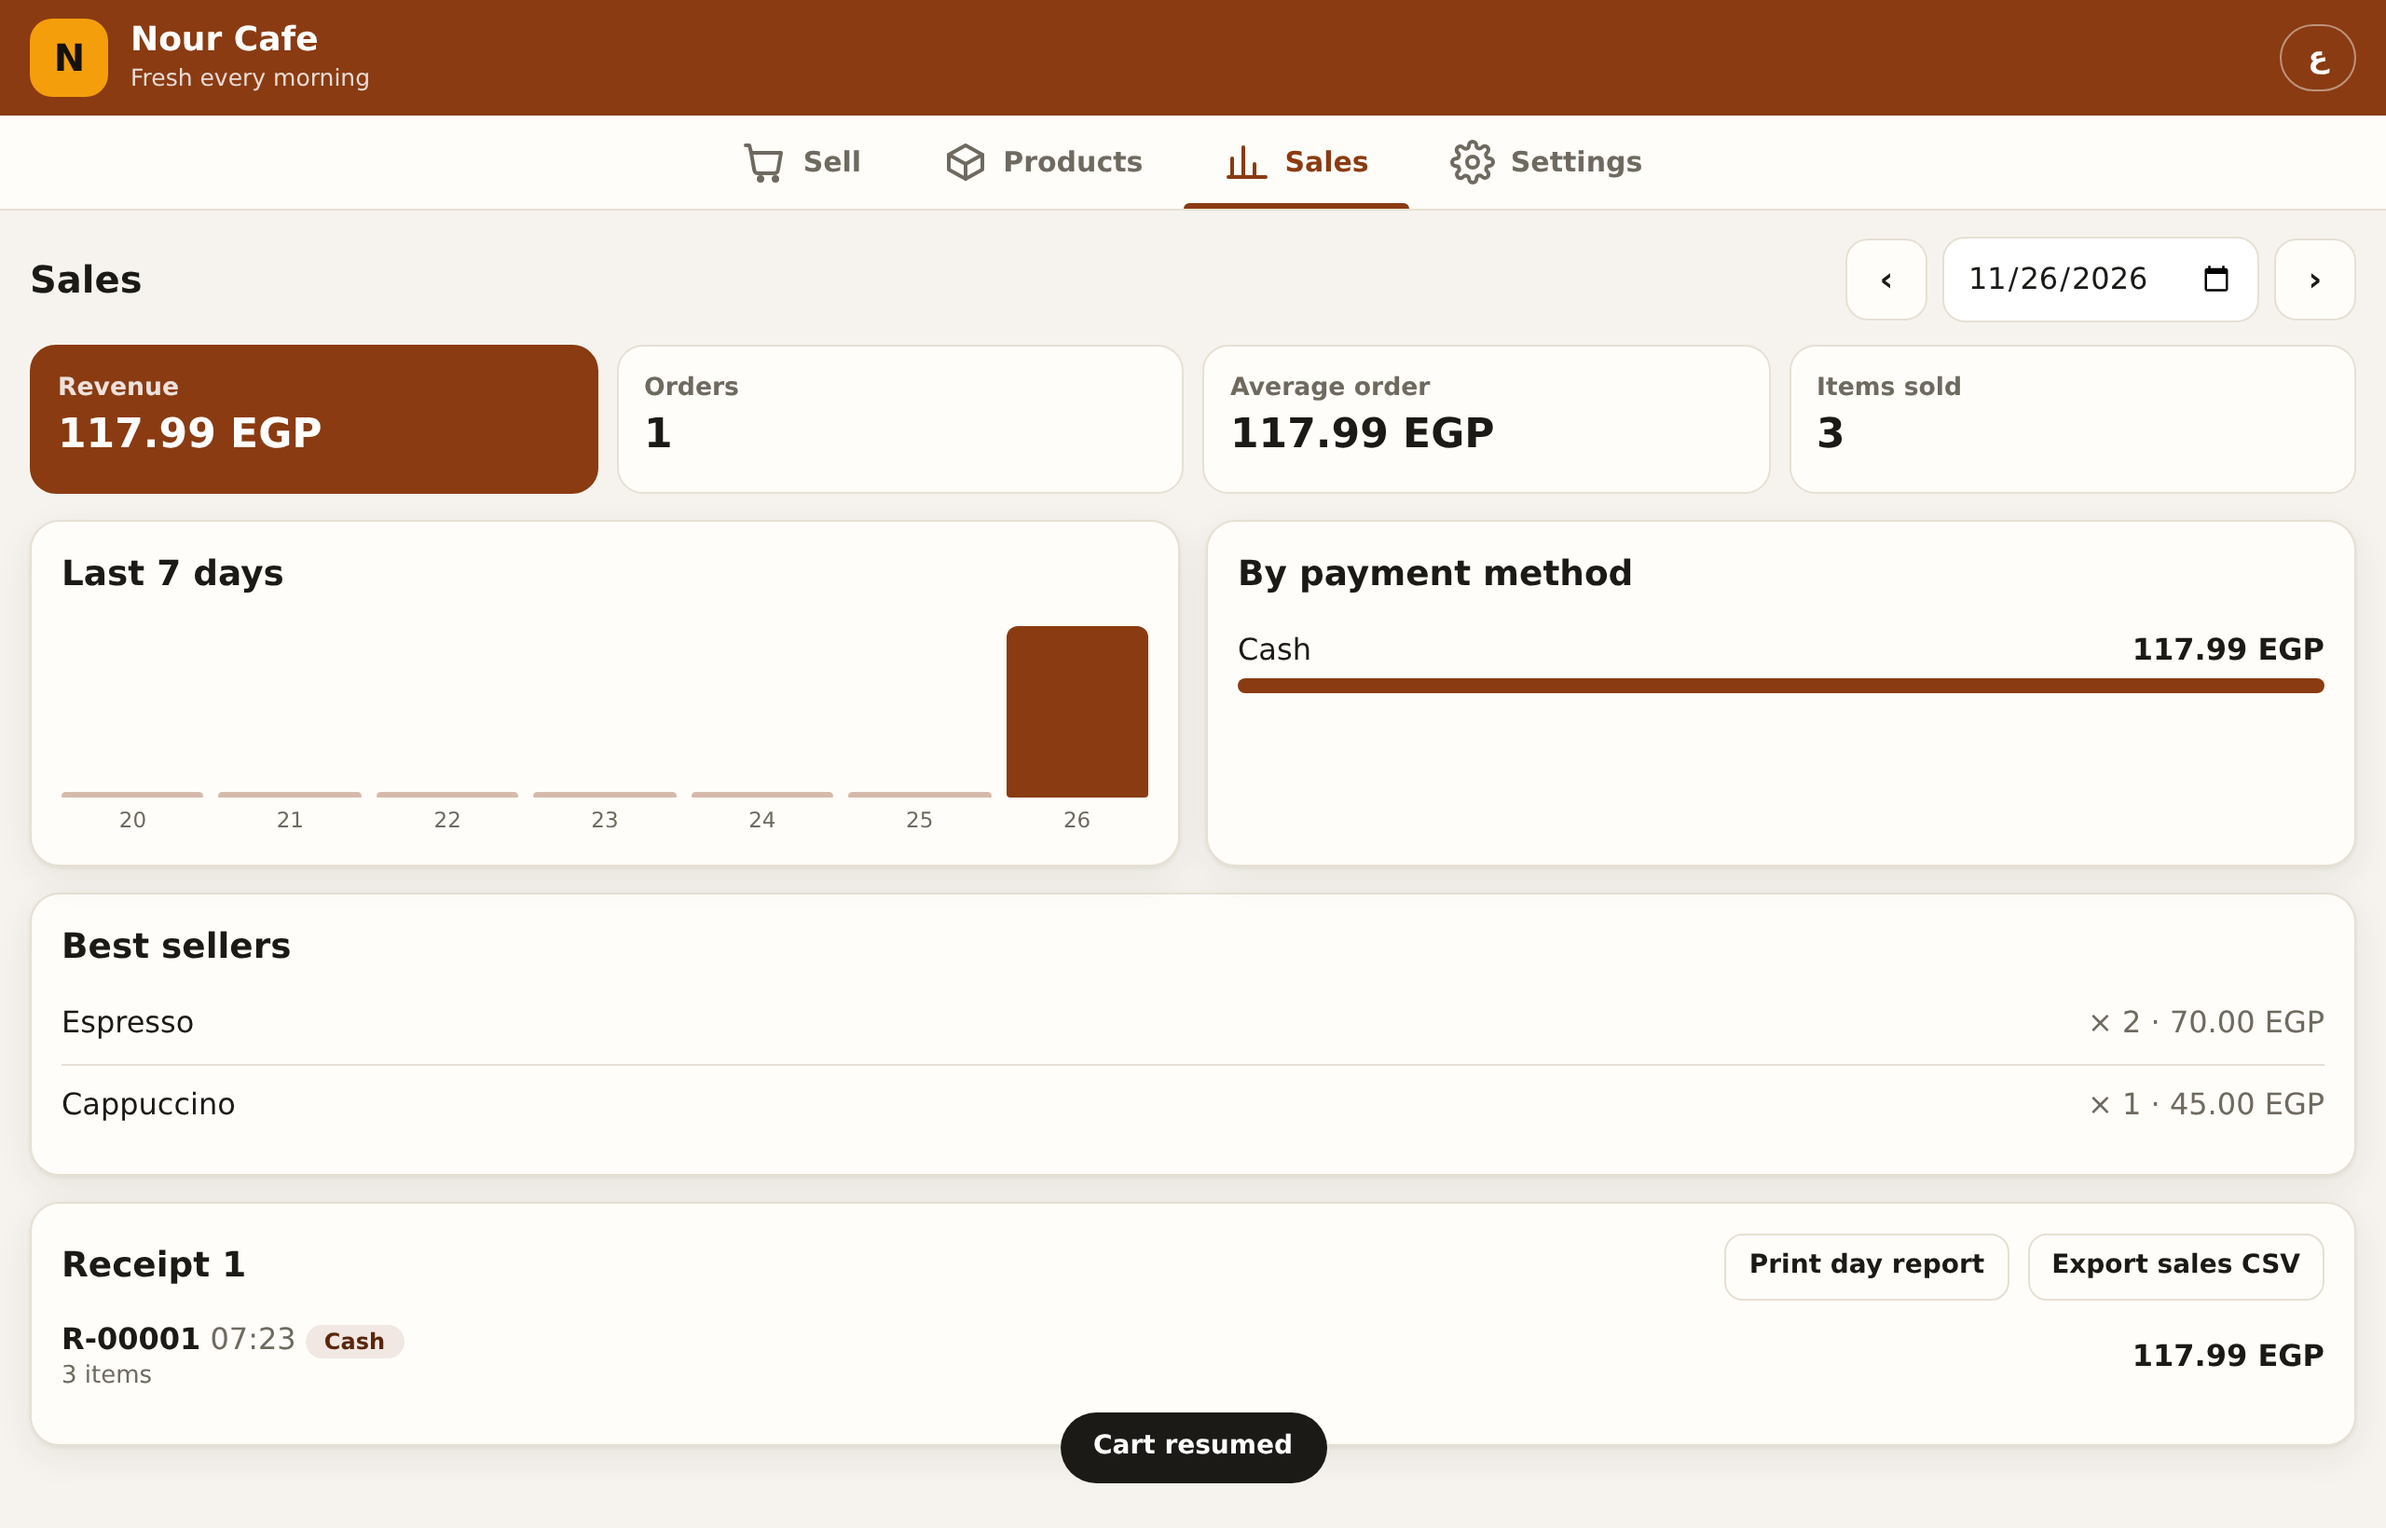
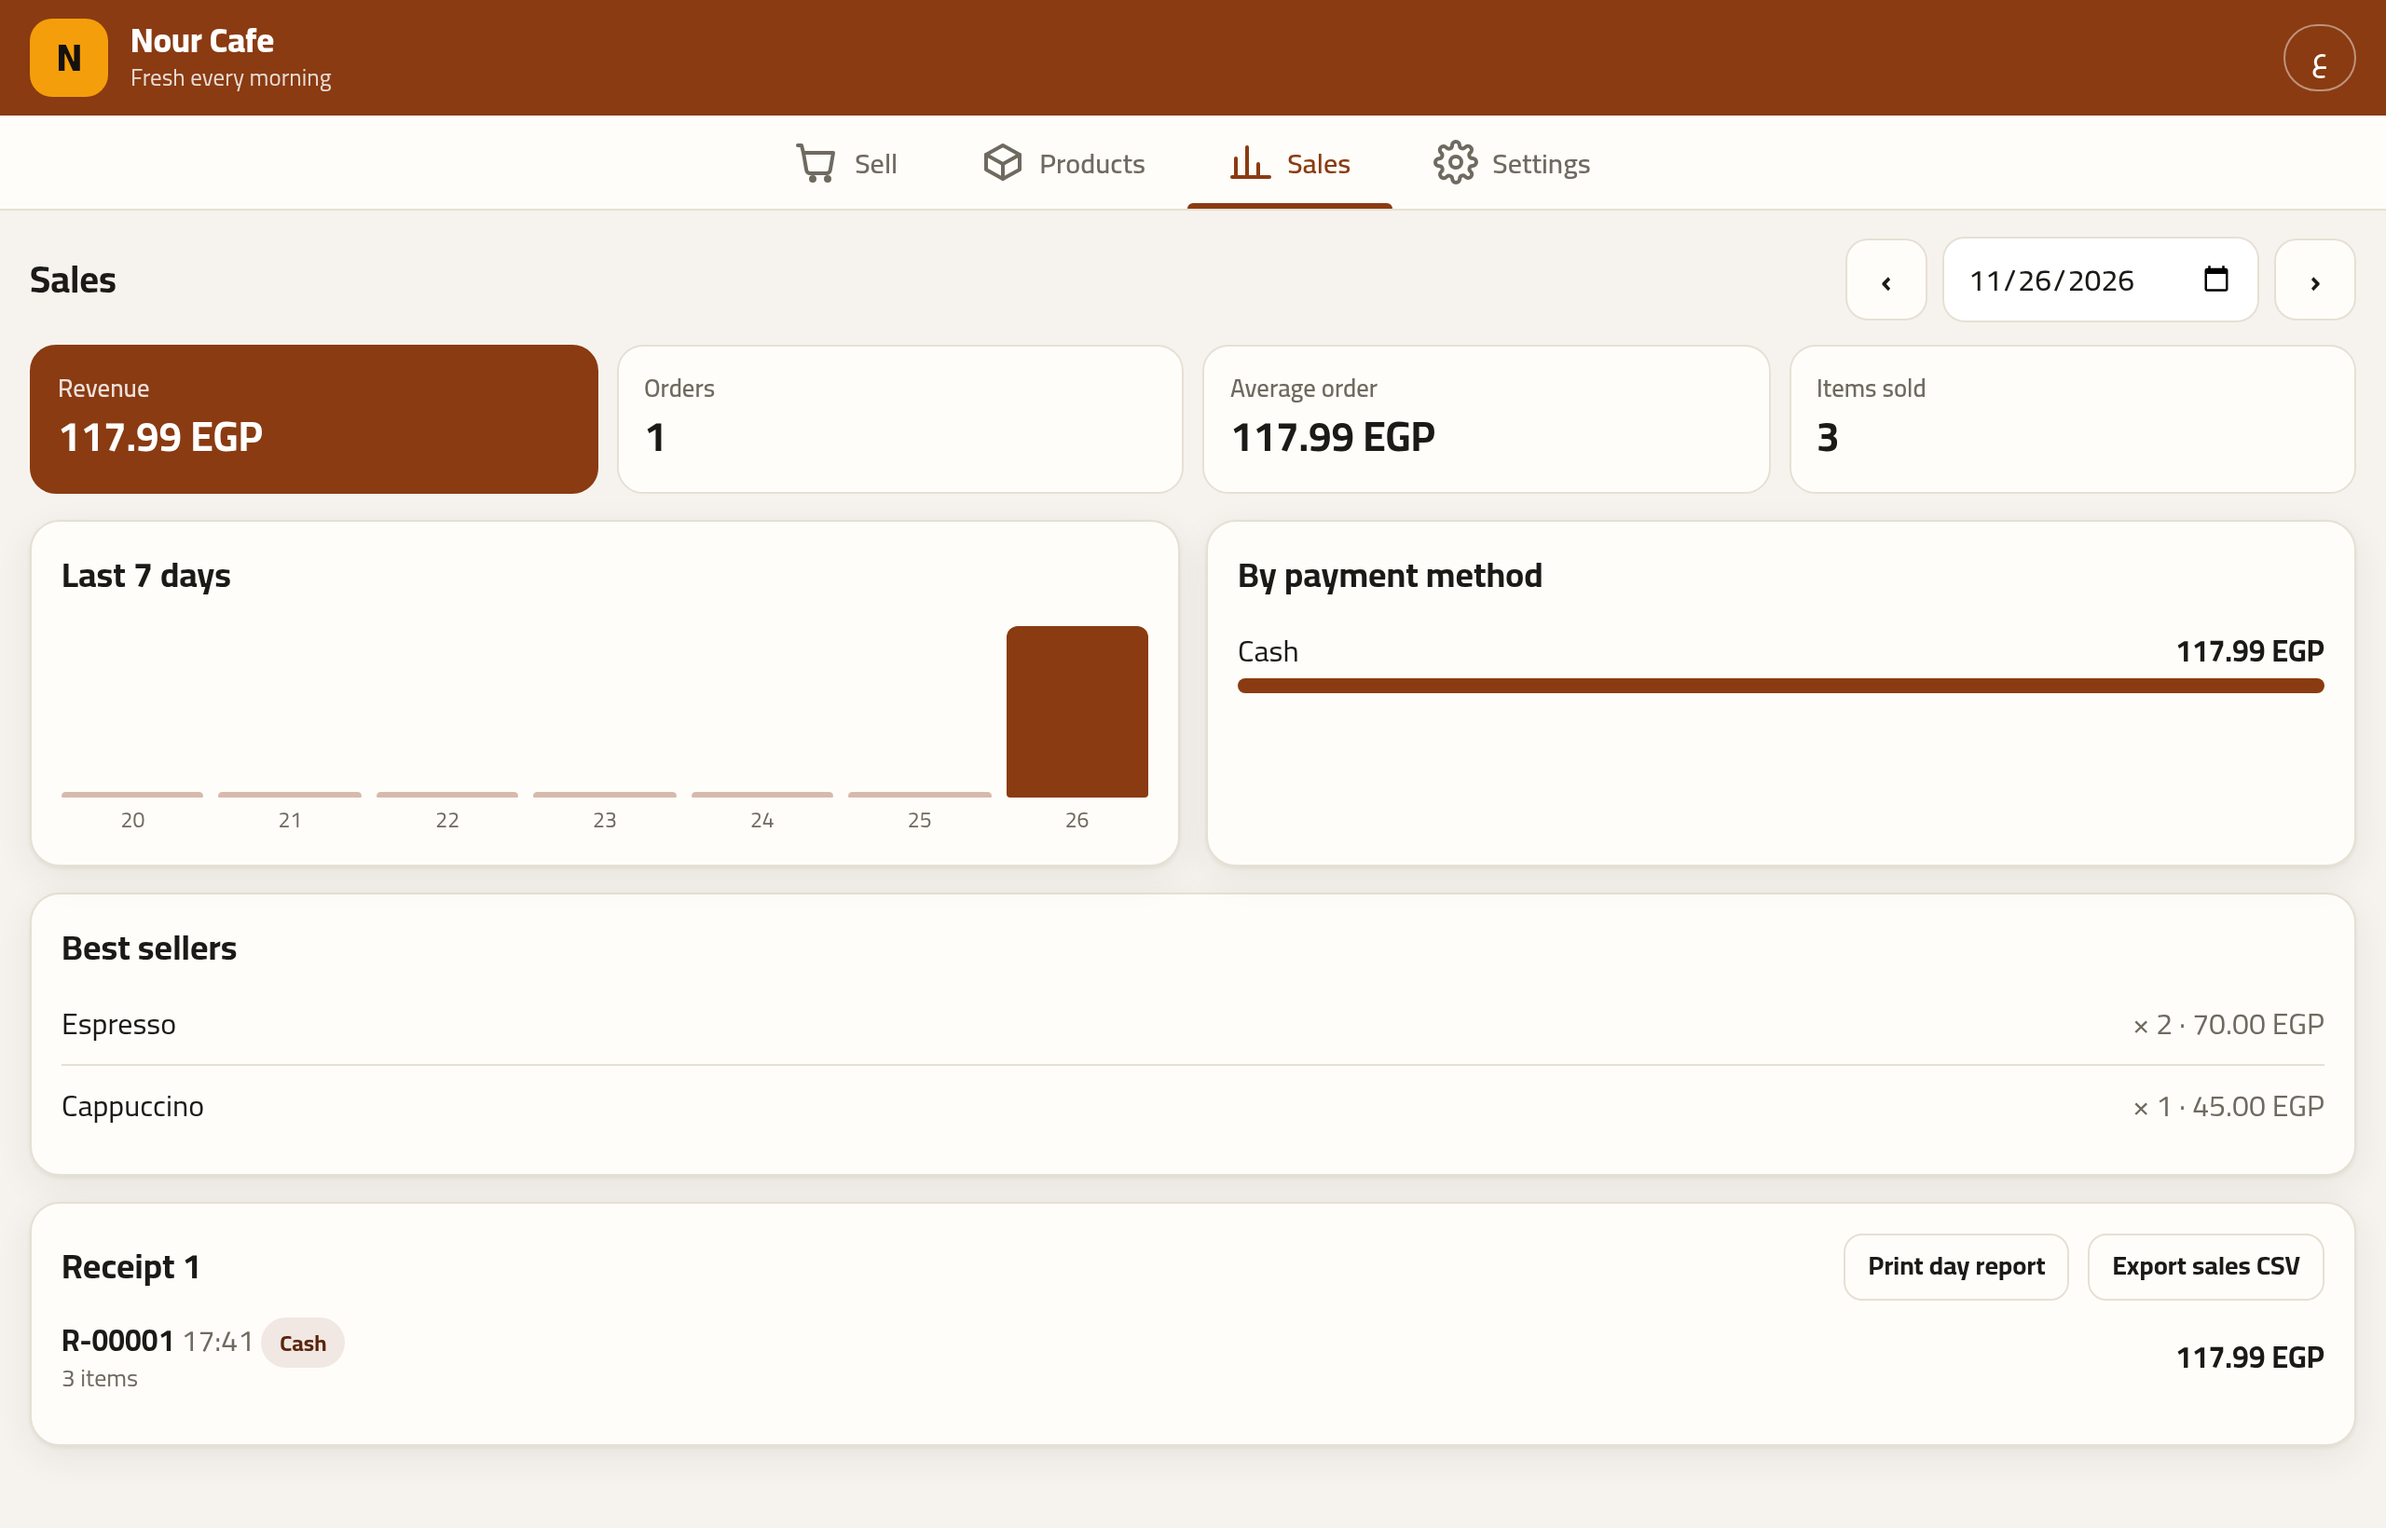
Round 2: self-hosted Cairo fonts, bad-input hardening, import sanitising, WhatsApp/CSV fixes, tests, fresh screenshots

diff --git a/js/core.js b/js/core.js
@@ -18,8 +18,18 @@
     s = s.replace(',', '.');
     if (!/^\d*\.?\d*$/.test(s) || s === '.') return NaN;
     var n = parseFloat(s);
-    if (!isFinite(n) || n < 0) return NaN;
+    if (!isFinite(n) || n < 0 || n > 1e9) return NaN; // 1 billion major units is far beyond any shop; avoids float precision loss
     return Math.round(n * pow10(decimals) + 1e-9);
+  }
+
+  /** Parse a typed plain number (percent, rate) with Arabic digits and comma decimals. NaN if invalid. */
+  function toNumber(input) {
+    var s = String(input == null ? '' : input).trim()
+      .replace(/[\u0660-\u0669]/g, function (c) { return c.charCodeAt(0) - 0x0660; })
+      .replace(/[\u06F0-\u06F9]/g, function (c) { return c.charCodeAt(0) - 0x06F0; })
+      .replace(/\u066B|\u066C|،|,/g, '.');
+    if (!/^\d*\.?\d*$/.test(s) || s === '' || s === '.') return NaN;
+    return parseFloat(s);
   }
 
   function groupInt(str) { return str.replace(/\B(?=(\d{3})+(?!\d))/g, ','); }
@@ -173,6 +183,18 @@
     return rows.filter(function (r) { return r.some(function (x) { return x.trim() !== ''; }); });
   }
 
+  /** Convert a ;- or tab-separated text to comma-separated, respecting quotes. */
+  function reDelim(text, d) {
+    var out = '', q = false;
+    for (var i = 0; i < text.length; i++) {
+      var c = text[i];
+      if (c === '"') { q = !q; out += c; }
+      else if (c === d && !q) out += ',';
+      else if (c === ',' && !q) out += '\u066C'; // stray comma inside an unquoted cell
+      else out += c;
+    }
+    return out;
+  }
   var PRODUCT_HEADER = ['name', 'price', 'category', 'sku', 'stock'];
   function productsToCSV(products, decimals) {
     return toCSV([PRODUCT_HEADER].concat(products.map(function (p) {
@@ -181,6 +203,11 @@
   }
   /** Returns {products:[...], errors:[{line,reason}]} */
   function productsFromCSV(text, decimals) {
+    text = String(text).replace(/^\uFEFF/, '');
+    var first = text.split(/\r?\n/, 1)[0] || '';
+    // Excel in Arabic/European locales saves CSV with semicolons or tabs
+    var delim = (first.split(';').length > first.split(',').length) ? ';' : (first.indexOf('\t') >= 0 && first.indexOf(',') < 0 ? '\t' : ',');
+    if (delim !== ',') text = reDelim(text, delim);
     var rows = parseCSV(text), out = { products: [], errors: [] };
     if (!rows.length) return out;
     var head = rows[0].map(function (h) { return h.trim().toLowerCase(); });
@@ -252,7 +279,7 @@
   }
 
   var api = {
-    normalizeState: normalizeState,
+    normalizeState: normalizeState, toNumber: toNumber,
     BRAND_DEFAULTS: BRAND_DEFAULTS, toMinor: toMinor, fmtMoney: fmtMoney, toArabicDigits: toArabicDigits,
     computeCart: computeCart, discountAmount: discountAmount, changeDue: changeDue, dateKey: dateKey, receiptNo: receiptNo,
     dailyTotals: dailyTotals, lastDays: lastDays, contrastRatio: contrastRatio, inkOn: inkOn, mix: mix, sanitizeBrand: sanitizeBrand,

diff --git a/fonts/fonts.css b/fonts/fonts.css
@@ -1,0 +1,5 @@
+/* Self-hosted Cairo (SIL OFL), variable weight, Google Fonts latin + arabic subsets. */
+@font-face{font-family:'Cairo';font-style:normal;font-weight:200 1000;font-display:swap;src:url(Cairo-arabic.woff2) format('woff2');unicode-range:U+0600-06FF, U+0750-077F, U+0870-0891, U+0897-08E1, U+08E3-08FF, U+200C-200E, U+2010-2011, U+204F, U+2E41, U+FB50-FDFF, U+FE70-FE74, U+FE76-FEFC, U+102E0-102FB, U+10E60-10E7E, U+10EC2-10EC7, U+10EC9-10EEE, U+10EF0-10EFF, U+1EE00-1EE03, U+1EE05-1EE1F, U+1EE21-1EE22, U+1EE24, U+1EE27, U+1EE29-1EE32, U+1EE34-1EE37, U+1EE39, U+1EE3B, U+1EE42, U+1EE47, U+1EE49, U+1EE4B, U+1EE4D-1EE4F, U+1EE51-1EE52, U+1EE54, U+1EE57, U+1EE59, U+1EE5B, U+1EE5D, U+1EE5F, U+1EE61-1EE62, U+1EE64, U+1EE67-1EE6A, U+1EE6C-1EE72, U+1EE74-1EE77, U+1EE79-1EE7C, U+1EE7E, U+1EE80-1EE89, U+1EE8B-1EE9B, U+1EEA1-1EEA3, U+1EEA5-1EEA9, U+1EEAB-1EEBB, U+1EEF0-1EEF1;}
+@font-face{font-family:'Cairo';font-style:normal;font-weight:200 1000;font-display:swap;src:url(Cairo-latin.woff2) format('woff2');unicode-range:U+0000-00FF, U+0131, U+0152-0153, U+02BB-02BC, U+02C6, U+02DA, U+02DC, U+0304, U+0308, U+0329, U+2000-206F, U+20AC, U+2122, U+2191, U+2193, U+2212, U+2215, U+FEFF, U+FFFD;}
+/* Arabic glyphs only, for serif stacks that keep a Latin serif face */
+@font-face{font-family:'CairoAr';font-style:normal;font-weight:200 1000;font-display:swap;src:url(Cairo-arabic.woff2) format('woff2');unicode-range:U+0600-06FF, U+0750-077F, U+0870-0891, U+0897-08E1, U+08E3-08FF, U+200C-200E, U+2010-2011, U+204F, U+2E41, U+FB50-FDFF, U+FE70-FE74, U+FE76-FEFC, U+102E0-102FB, U+10E60-10E7E, U+10EC2-10EC7, U+10EC9-10EEE, U+10EF0-10EFF, U+1EE00-1EE03, U+1EE05-1EE1F, U+1EE21-1EE22, U+1EE24, U+1EE27, U+1EE29-1EE32, U+1EE34-1EE37, U+1EE39, U+1EE3B, U+1EE42, U+1EE47, U+1EE49, U+1EE4B, U+1EE4D-1EE4F, U+1EE51-1EE52, U+1EE54, U+1EE57, U+1EE59, U+1EE5B, U+1EE5D, U+1EE5F, U+1EE61-1EE62, U+1EE64, U+1EE67-1EE6A, U+1EE6C-1EE72, U+1EE74-1EE77, U+1EE79-1EE7C, U+1EE7E, U+1EE80-1EE89, U+1EE8B-1EE9B, U+1EEA1-1EEA3, U+1EEA5-1EEA9, U+1EEAB-1EEBB, U+1EEF0-1EEF1;}

diff --git a/js/app.js b/js/app.js
@@ -431,7 +431,7 @@
       s.paymentMethods = ['cash', 'card', 'other'].filter(function (x) { return list.indexOf(x) >= 0; });
       if (s.paymentMethods.indexOf(ui.method) < 0) ui.method = s.paymentMethods[0];
     } else if (el.type === 'checkbox') s[n] = el.checked;
-    else if (n === 'taxRate') { var v = parseFloat(String(el.value).replace(',', '.')); s.taxRate = isFinite(v) && v >= 0 && v <= 100 ? v : 0; }
+    else if (n === 'taxRate') { var v = K.toNumber(el.value); s.taxRate = isFinite(v) && v >= 0 && v <= 100 ? v : 0; }
     else if (n === 'decimals') s.decimals = parseInt(el.value, 10);
     else if (n === 'shopName') s.shopName = el.value.slice(0, 60);
     else s[n] = el.value;
@@ -537,7 +537,7 @@
     var el = e.target;
     if (el.id === 'q') { ui.q = el.value; $('#tiles').innerHTML = tilesHTML(); }
     else if (el.id === 'pq') { ui.pq = el.value; $('#plist').innerHTML = plistHTML(); }
-    else if (el.id === 'discVal') { var v = parseFloat(String(el.value).replace(',', '.')); v = isFinite(v) && v > 0 ? v : 0; if (state.disc.type === 'percent') v = Math.min(v, 100); state.disc.value = v; save(); $$('[data-act=dtype]').forEach(function (b) { var k = b.dataset.k; b.setAttribute('aria-pressed', String(k === 'none' ? !v : (k === state.disc.type))); }); updateCartDynamic(); }
+    else if (el.id === 'discVal') { var v = K.toNumber(el.value); v = isFinite(v) && v > 0 ? Math.min(v, 1e9) : 0; if (state.disc.type === 'percent') v = Math.min(v, 100); state.disc.value = v; save(); $$('[data-act=dtype]').forEach(function (b) { var k = b.dataset.k; b.setAttribute('aria-pressed', String(k === 'none' ? !v : (k === state.disc.type))); }); updateCartDynamic(); }
     else if (el.id === 'tendered') { ui.tendered = el.value; updateCartDynamic(); }
     else if (el.closest && el.closest('#sform')) onSettingInput(e);
   });

diff --git a/tests/e2e.js b/tests/e2e.js
@@ -21,7 +21,7 @@ const sleep = ms => new Promise(r => setTimeout(r, ms));
   const click = async (p, sel) => { await p.waitForSelector(sel, { visible: true }); await p.click(sel); };
   const text = (p, sel) => p.$eval(sel, e => e.textContent.trim());
   const clickText = async (p, sel, re) => { const h = await p.evaluateHandle((s, r) => [...document.querySelectorAll(s)].find(e => new RegExp(r).test(e.textContent) && e.offsetParent !== null), sel, re.source); if (!h.asElement()) throw new Error('no element ' + sel + ' ~ ' + re); await h.asElement().click(); };
-  const shot = async (p, name) => { if (SHOTS) { await sleep(400); fs.mkdirSync(DOCS, { recursive: true }); await p.screenshot({ path: path.join(DOCS, name + '.png') }); } };
+  const shot = async (p, name) => { if (SHOTS) { await p.evaluate(() => { const t = document.querySelector('#toast'); if (t) t.classList.remove('show'); }); await sleep(400); fs.mkdirSync(DOCS, { recursive: true }); await p.screenshot({ path: path.join(DOCS, name + '.png') }); } };
   const tiles = p => p.$$eval('.tile', t => t.length);
   const tileByName = (p, n) => p.evaluateHandle(n => [...document.querySelectorAll('.tile')].find(t => t.textContent.includes(n)), n);
 

diff --git a/sw.js b/sw.js
@@ -1,5 +1,5 @@
-const CACHE = 'kashier-v1';
-const FILES = ['./', 'index.html', 'css/style.css', 'js/core.js', 'js/i18n.js', 'js/app.js', 'manifest.webmanifest', 'assets/icon.svg'];
+const CACHE = 'kashier-v2';
+const FILES = ['fonts/fonts.css','fonts/Cairo-arabic.woff2','fonts/Cairo-latin.woff2','./', 'index.html', 'css/style.css', 'js/core.js', 'js/i18n.js', 'js/app.js', 'manifest.webmanifest', 'assets/icon.svg'];
 self.addEventListener('install', e => { e.waitUntil(caches.open(CACHE).then(c => c.addAll(FILES)).then(() => self.skipWaiting())); });
 self.addEventListener('activate', e => { e.waitUntil(caches.keys().then(ks => Promise.all(ks.filter(k => k !== CACHE).map(k => caches.delete(k)))).then(() => self.clients.claim())); });
 self.addEventListener('fetch', e => {

diff --git a/tests/unit.test.js b/tests/unit.test.js
@@ -137,3 +137,12 @@ test('i18n: Arabic and English have identical keys, no empty values, placeholder
   assert.equal(I.make('ar')('imported', { n: 3 }), 'تم استيراد 3 منتج');
   assert.equal(I.make('en')('nope_key'), 'nope_key');
 });
+
+test('bad input: absurd amounts, Arabic percents, semicolon CSV', () => {
+  assert.ok(isNaN(K.toMinor('99999999999999999999', 2)));
+  assert.equal(K.toNumber('١٤٫٥'), 14.5);
+  assert.equal(K.toNumber('14,5'), 14.5);
+  assert.ok(isNaN(K.toNumber('abc')));
+  const r = K.productsFromCSV('name;price;stock\nشاي;12,5;4\n', 2);
+  assert.equal(r.products.length, 1); assert.equal(r.products[0].price, 1250); assert.equal(r.products[0].stock, 4);
+});

diff --git a/css/style.css b/css/style.css
@@ -2,7 +2,7 @@
   --brand:#0f766e; --brand-ink:#fff; --brand-soft:#e3f1ef; --brand-deep:#0a4f4a; --accent:#f59e0b;
   --bg:#f6f3ee; --card:#fffdf9; --ink:#1b1a17; --muted:#6f6a60; --line:#e6e0d4; --danger:#b42318; --ok:#1a7f45;
   --r:16px; --shadow:0 1px 2px rgba(40,30,10,.06),0 6px 20px rgba(40,30,10,.07);
-  --font:"Segoe UI",system-ui,-apple-system,"Noto Sans Arabic",Tahoma,"Helvetica Neue",Arial,sans-serif;
+  --font:"Cairo","Segoe UI",system-ui,-apple-system,"Noto Sans Arabic",Tahoma,"Helvetica Neue",Arial,sans-serif;
   --tab-h:64px;
 }
 *{box-sizing:border-box}

diff --git a/index.html b/index.html
@@ -8,6 +8,7 @@
 <title>Kashier</title>
 <link rel="manifest" href="manifest.webmanifest">
 <link rel="icon" href="assets/icon.svg" type="image/svg+xml">
+<link rel="stylesheet" href="fonts/fonts.css">
 <link rel="stylesheet" href="css/style.css">
 </head>
 <body>

diff --git a/README.md b/README.md
@@ -90,3 +90,11 @@ The browser test covers: demo data, live branding, tax and discount maths, cash 
 ## License
 
 [MIT](LICENSE). Use it, change it, sell it to your clients.
+
+## Fonts, import and limits (round 2)
+
+- Cairo (SIL OFL) is bundled in `fonts/` as woff2 and precached by the service worker, so Arabic text looks the same offline and no request goes to Google.
+- CSV product import accepts comma, semicolon or tab separated files (Excel in Arabic locales saves with semicolons) and decimal commas.
+- Typed amounts above 1,000,000,000 are refused (float precision). Percent and tax fields accept Arabic digits.
+- No camera barcode scanning. The search box takes a USB or Bluetooth scanner (they type the code and press Enter, which adds the SKU to the cart). Browser camera scanning (`BarcodeDetector`) is not available on desktop Chrome for Windows/Linux or Firefox/Safari, and could not be tested on a real camera here, so it was left out rather than shipped half-working.
+- Printing uses the browser print dialog (receipt only, 76 mm layout). Data lives in this browser's localStorage: back it up from Settings.
